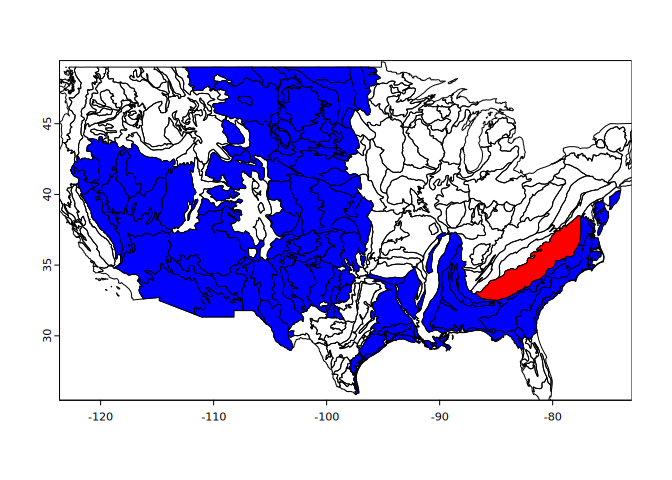
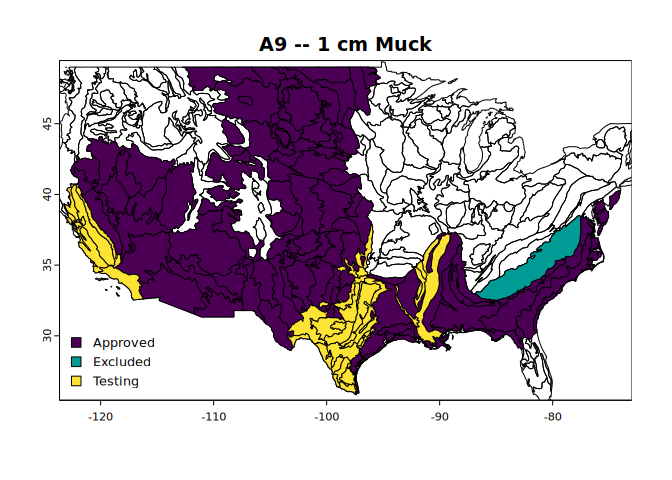
Add `plot_indicator_usage()`  - resolves 1 TODO from readme

Changed region(s): [[0.0938, 0.0625, 0.9375, 0.8125], [0.0938, 0.6875, 0.25, 0.8125]]

diff --git a/README.md b/README.md
@@ -33,7 +33,7 @@ indicator “A9” (also known as “1 cm Muck”).
 
 ``` r
 library(hydricsoils)
-#> hydricsoils v0.1.0.9001 -- using:
+#> hydricsoils v0.1.0.9002 -- using:
 #>  - 'Field Indicators of Hydric Soils in the United States' v8.2 (2018)
 #>  - 'Land Resource Regions and Major Land Resource Areas of the United States, the Caribbean, and the Pacific Basin' v5.2 (2022)
 
@@ -48,22 +48,16 @@ subset(fihs, fihs$indicator == "A9", select = c("usage", "usage_symbols", "excep
 
 If we load the MLRA v5.2 database using `lrrmlra_geometry()` (requires
 [{terra}](https://github.com/rspatial/terra/)) we can visualize the
-extent of where the “A9” indicator is used (in blue), and then show the
-MLRA it is excluded from (a portion of LRR “P”, also known as the “South
-Atlantic and Gulf Slope Cash Crops, Forest, and Livestock Region”, in
-red):
+extent of where the “A9” indicator is used.
+
+There is a function in the package called `plot_indicator_usage()` which
+simplifies the process of loading and subsetting the geometry. It
+provides some simple defaults for visualizing areas where usage is
+“Approved”, “Excluded” or in “Testing”.
 
 ``` r
-x <- lrrmlra_geometry()
+plot_indicator_usage("A9", test_areas = TRUE, ext = c("Approved", "Excluded"), plg = list(x = "bottomleft"))
 #> Loading required namespace: terra
-
-ind <- subset(fihs, fihs$indicator == "A9")
-xsub <- terra::subset(x, x$LRRSYM %in% unlist(ind$usage_symbols))
-xexc <- terra::subset(xsub, xsub$MLRARSYM %in% unlist(ind$except_mlra))
-
-terra::plot(x, ext = xsub)
-terra::plot(xsub, add = TRUE, col = "BLUE")
-terra::plot(xexc, add = TRUE, col = "RED")
 ```
 
 <img src="man/figures/README-example1-spatial-1.png" width="100%" />
@@ -133,11 +127,25 @@ approved for use in LRR “C” whereas “A9” is approved for use in LRR “D
 Note that while “A9” is available for testing in “C”, “A5” is not being
 considered for use in LRR “D”.
 
+We can visualize this by expanding the first example to include “A5” in
+a separate pane. We limit the extent to just LRRs “C” and “D”.
+
+``` r
+x <- lrrmlra_geometry()
+xext <- subset(x, x$LRRSYM %in% c("C", "D"))
+
+par(mfrow = c(2, 1))
+plot_indicator_usage("A5", test_areas = TRUE, ext = xext)
+plot_indicator_usage("A9", test_areas = TRUE, ext = xext)
+```
+
+<img src="man/figures/README-example2-spatial-1.png" width="100%" />
+
 ## Future work
 
 In future updates I hope to include:
 
-<!-- use &check; and reference issue/PRs as these are completed -->
+<!-- use :heavy_check_mark: and reference issue/PRs as these are completed -->
 
 - \_ A defined *data.frame* format with standard column names, data
   types, and relationships that are needed to evaluate criteria for all
@@ -149,13 +157,15 @@ In future updates I hope to include:
   figures to specific indicators
 
 - \_ Parsing of LRRs and MLRAs where provisional indicators are being
-  tested (new dataset)
+  tested
 
 - \_ Routines for automatic evaluation of input data to determine which
   indicators may be met
 
-- \_ Spatial methods and helpers for creating graphics depicting where
-  indicators are used or not
+- \_ Spatial methods for determining appropriate indicators to consider
+
+- :heavy_check_mark: Helpers for creating graphics depicting where
+  indicators are used or not (DONE: see `plot_indicator_usage()`)
 
 ## Disclaimer
 
